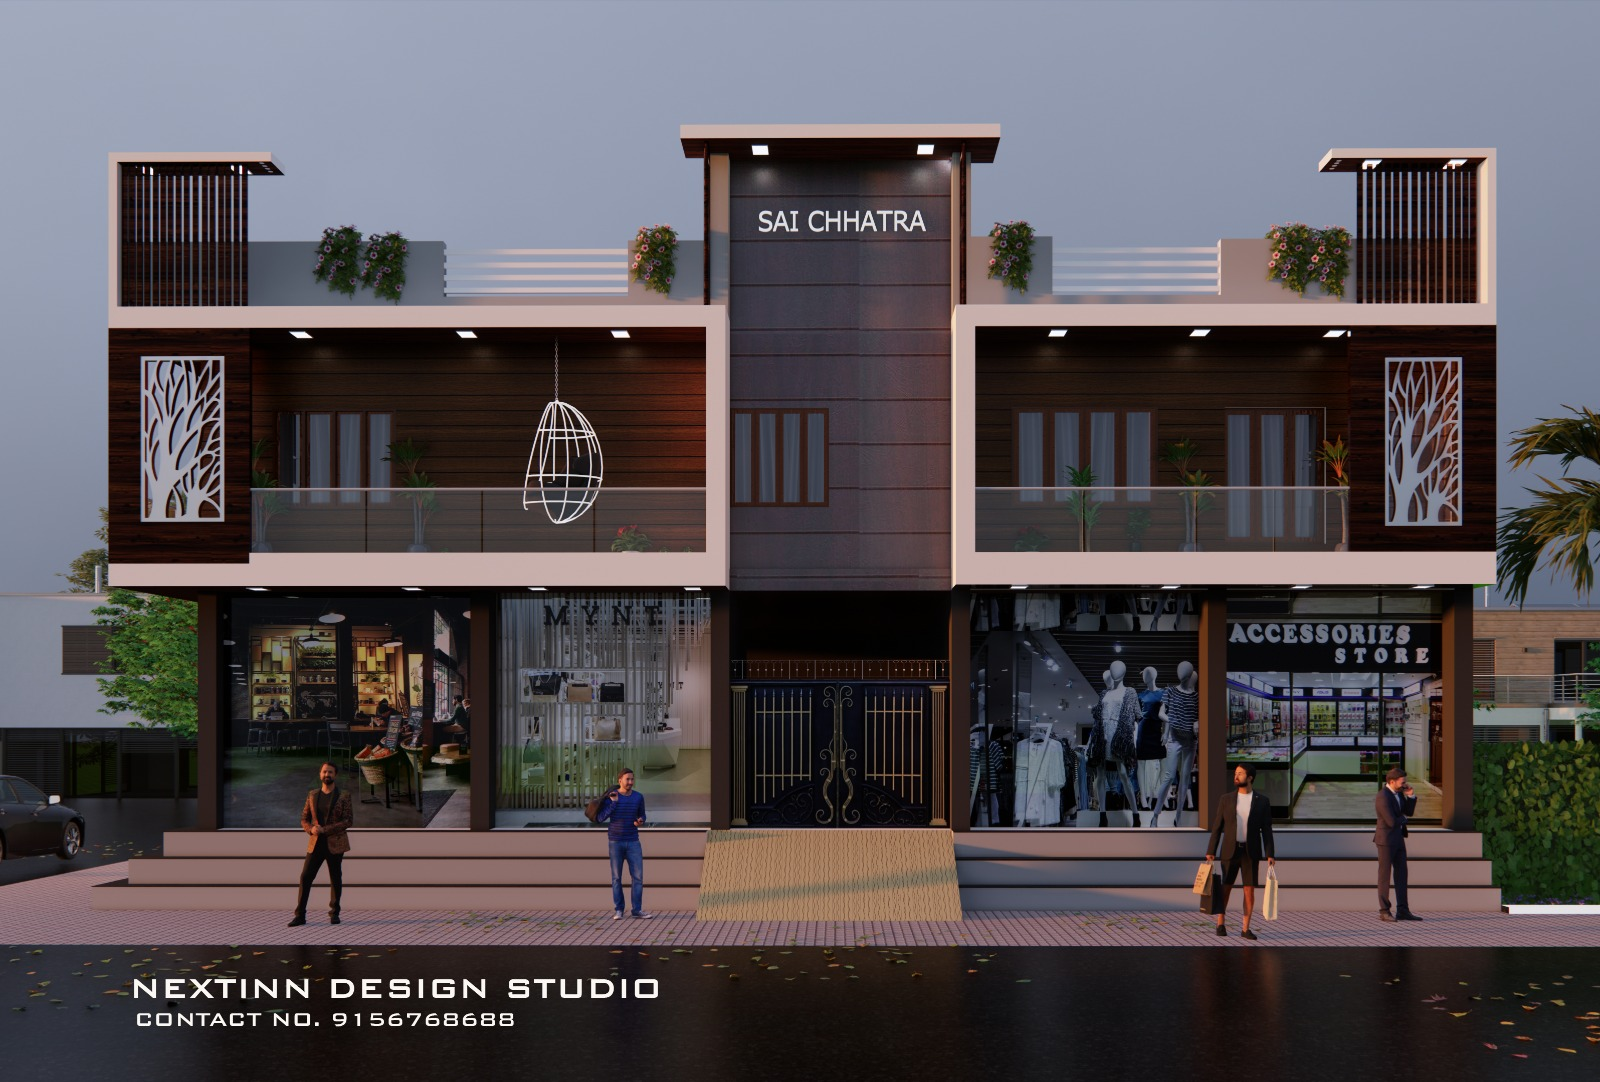
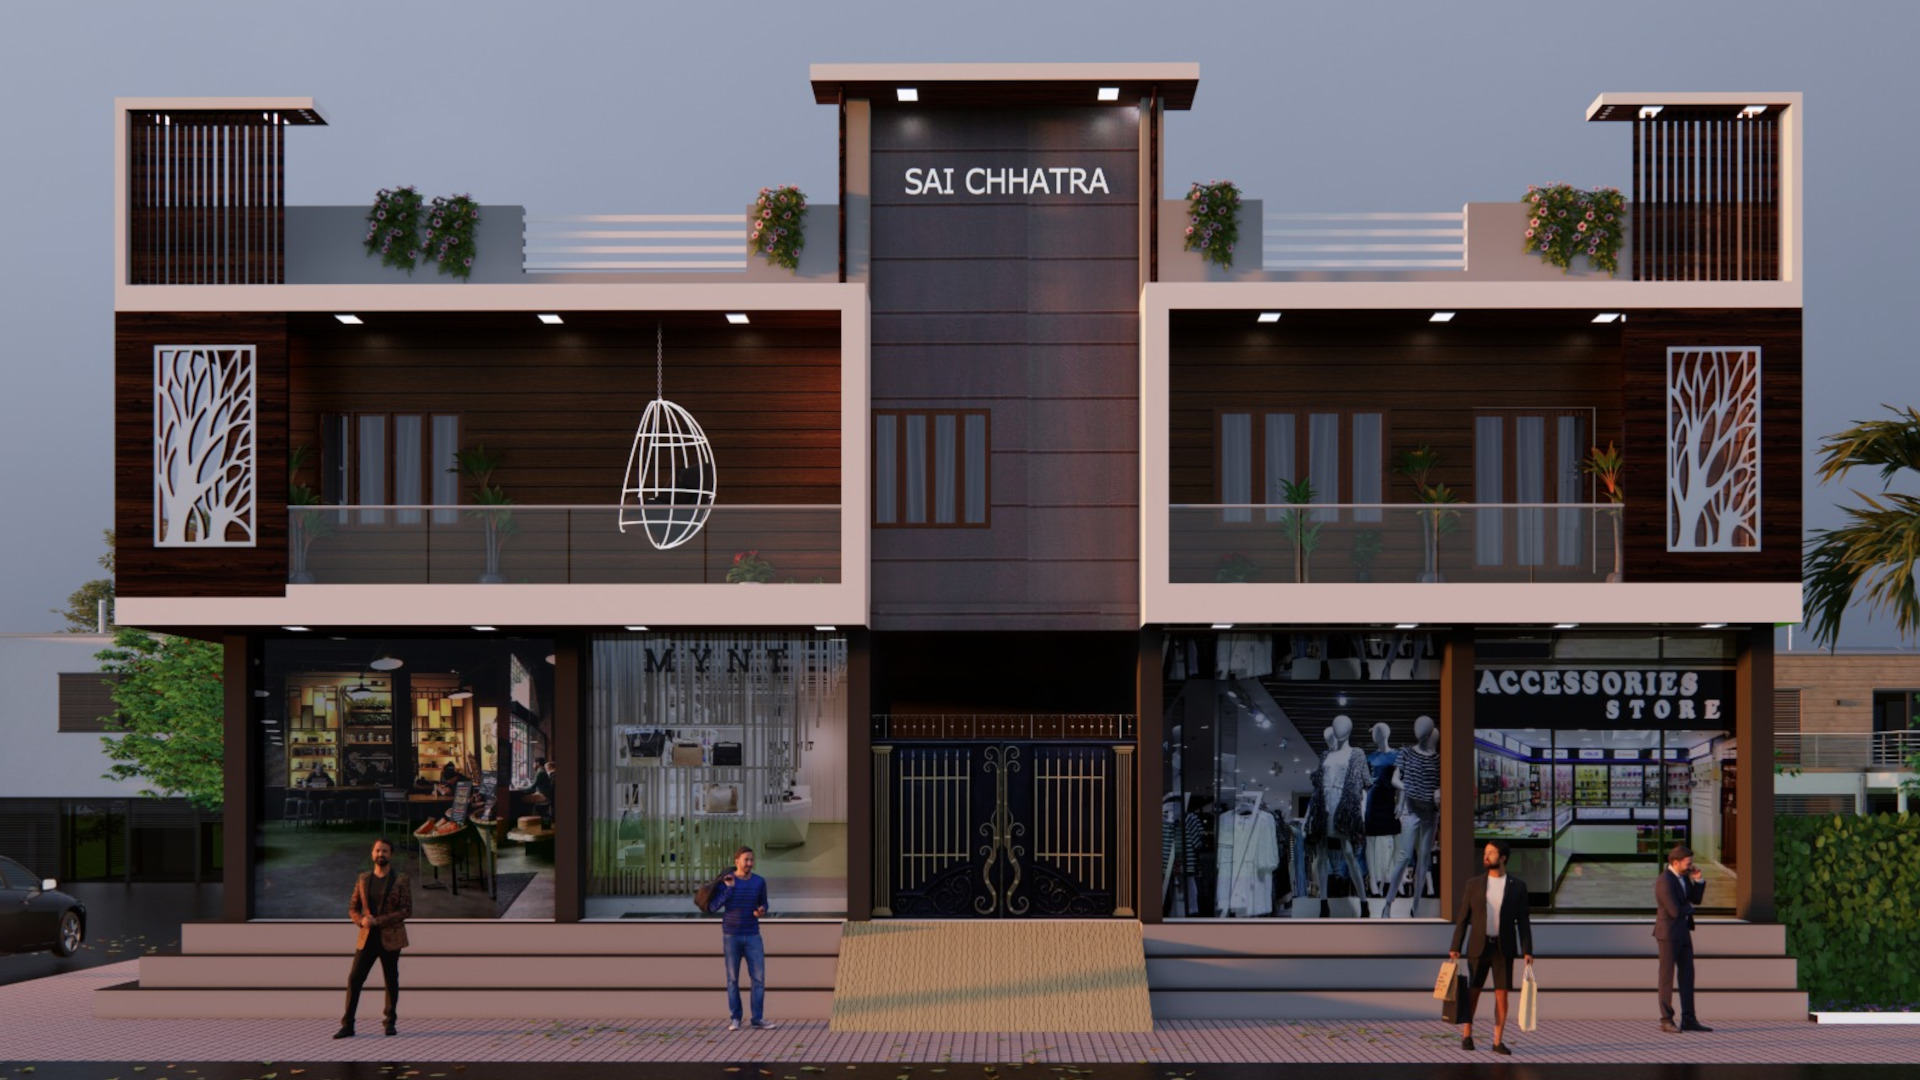
custom sliding

diff --git a/themes/tella/static/css/splide.min.css b/themes/tella/static/css/splide.min.css
@@ -1,1 +1,35 @@
-.splide__container{box-sizing:border-box;position:relative}.splide__list{backface-visibility:hidden;display:-ms-flexbox;display:flex;height:100%;margin:0!important;padding:0!important}.splide.is-initialized:not(.is-active) .splide__list{display:block}.splide__pagination{-ms-flex-align:center;align-items:center;display:-ms-flexbox;display:flex;-ms-flex-wrap:wrap;flex-wrap:wrap;-ms-flex-pack:center;justify-content:center;margin:0;pointer-events:none}.splide__pagination li{display:inline-block;line-height:1;list-style-type:none;margin:0;pointer-events:auto}.splide:not(.is-overflow) .splide__pagination{display:none}.splide__progress__bar{width:0}.splide{position:relative;visibility:hidden}.splide.is-initialized,.splide.is-rendered{visibility:visible}.splide__slide{backface-visibility:hidden;box-sizing:border-box;-ms-flex-negative:0;flex-shrink:0;list-style-type:none!important;margin:0;position:relative}.splide__slide img{vertical-align:bottom}.splide__spinner{animation:splide-loading 1s linear infinite;border:2px solid #999;border-left-color:transparent;border-radius:50%;bottom:0;contain:strict;display:inline-block;height:20px;left:0;margin:auto;position:absolute;right:0;top:0;width:20px}.splide__sr{clip:rect(0 0 0 0);border:0;height:1px;margin:-1px;overflow:hidden;padding:0;position:absolute;width:1px}.splide__toggle.is-active .splide__toggle__play,.splide__toggle__pause{display:none}.splide__toggle.is-active .splide__toggle__pause{display:inline}.splide__track{overflow:hidden;position:relative;z-index:0}@keyframes splide-loading{0%{transform:rotate(0)}to{transform:rotate(1turn)}}.splide__track--draggable{-webkit-touch-callout:none;-webkit-user-select:none;-ms-user-select:none;user-select:none}.splide__track--fade>.splide__list>.splide__slide{margin:0!important;opacity:0;z-index:0}.splide__track--fade>.splide__list>.splide__slide.is-active{opacity:1;z-index:1}.splide--rtl{direction:rtl}.splide__track--ttb>.splide__list{display:block}.splide__arrow{-ms-flex-align:center;align-items:center;background:#ccc;border:0;border-radius:50%;cursor:pointer;display:-ms-flexbox;display:flex;height:2em;-ms-flex-pack:center;justify-content:center;opacity:.7;padding:0;position:absolute;top:50%;transform:translateY(-50%);width:2em;z-index:1}.splide__arrow svg{fill:#000;height:1.2em;width:1.2em}.splide__arrow:hover:not(:disabled){opacity:.9}.splide__arrow:disabled{opacity:.3}.splide__arrow:focus-visible{outline:3px solid #0bf;outline-offset:3px}.splide__arrow--prev{left:1em}.splide__arrow--prev svg{transform:scaleX(-1)}.splide__arrow--next{right:1em}.splide.is-focus-in .splide__arrow:focus{outline:3px solid #0bf;outline-offset:3px}.splide__pagination{bottom:.5em;left:0;padding:0 1em;position:absolute;right:0;z-index:1}.splide__pagination__page{background:#ccc;border:0;border-radius:50%;display:inline-block;height:8px;margin:3px;opacity:.7;padding:0;position:relative;transition:transform .2s linear;width:8px}.splide__pagination__page.is-active{background:#fff;transform:scale(1.4);z-index:1}.splide__pagination__page:hover{cursor:pointer;opacity:.9}.splide__pagination__page:focus-visible{outline:3px solid #0bf;outline-offset:3px}.splide.is-focus-in .splide__pagination__page:focus{outline:3px solid #0bf;outline-offset:3px}.splide__progress__bar{background:#ccc;height:3px}.splide__slide{-webkit-tap-highlight-color:rgba(0,0,0,0)}.splide__slide:focus{outline:0}@supports(outline-offset:-3px){.splide__slide:focus-visible{outline:3px solid #0bf;outline-offset:-3px}}@media screen and (-ms-high-contrast:none){.splide__slide:focus-visible{border:3px solid #0bf}}@supports(outline-offset:-3px){.splide.is-focus-in .splide__slide:focus{outline:3px solid #0bf;outline-offset:-3px}}@media screen and (-ms-high-contrast:none){.splide.is-focus-in .splide__slide:focus{border:3px solid #0bf}.splide.is-focus-in .splide__track>.splide__list>.splide__slide:focus{border-color:#0bf}}.splide__toggle{cursor:pointer}.splide__toggle:focus-visible{outline:3px solid #0bf;outline-offset:3px}.splide.is-focus-in .splide__toggle:focus{outline:3px solid #0bf;outline-offset:3px}.splide__track--nav>.splide__list>.splide__slide{border:3px solid transparent;cursor:pointer}.splide__track--nav>.splide__list>.splide__slide.is-active{border:3px solid #000}.splide__arrows--rtl .splide__arrow--prev{left:auto;right:1em}.splide__arrows--rtl .splide__arrow--prev svg{transform:scaleX(1)}.splide__arrows--rtl .splide__arrow--next{left:1em;right:auto}.splide__arrows--rtl .splide__arrow--next svg{transform:scaleX(-1)}.splide__arrows--ttb .splide__arrow{left:50%;transform:translate(-50%)}.splide__arrows--ttb .splide__arrow--prev{top:1em}.splide__arrows--ttb .splide__arrow--prev svg{transform:rotate(-90deg)}.splide__arrows--ttb .splide__arrow--next{bottom:1em;top:auto}.splide__arrows--ttb .splide__arrow--next svg{transform:rotate(90deg)}.splide__pagination--ttb{bottom:0;display:-ms-flexbox;display:flex;-ms-flex-direction:column;flex-direction:column;left:auto;padding:1em 0;right:.5em;top:0}
+.splide__container{box-sizing:border-box;position:relative}.splide__list{backface-visibility:hidden;display:-ms-flexbox;display:flex;height:100%;margin:0!important;padding:0!important}.splide.is-initialized:not(.is-active) .splide__list{display:block}.splide__pagination{-ms-flex-align:center;align-items:center;display:-ms-flexbox;display:flex;-ms-flex-wrap:wrap;flex-wrap:wrap;-ms-flex-pack:center;justify-content:center;margin:0;pointer-events:none}.splide__pagination li{display:inline-block;line-height:1;list-style-type:none;margin:0;pointer-events:auto}.splide:not(.is-overflow) .splide__pagination{display:none}.splide__progress__bar{width:0}.splide{position:relative;visibility:hidden}.splide.is-initialized,.splide.is-rendered{visibility:visible}.splide__slide{backface-visibility:hidden;box-sizing:border-box;-ms-flex-negative:0;flex-shrink:0;list-style-type:none!important;margin:0;position:relative}.splide__slide img{vertical-align:bottom}.splide__spinner{animation:splide-loading 3s linear infinite;border:2px solid #999;border-left-color:transparent;border-radius:50%;bottom:0;contain:strict;display:inline-block;height:20px;left:0;margin:auto;position:absolute;right:0;top:0;width:20px}.splide__sr{clip:rect(0 0 0 0);border:0;height:1px;margin:-1px;overflow:hidden;padding:0;position:absolute;width:1px}.splide__toggle.is-active .splide__toggle__play,.splide__toggle__pause{display:none}.splide__toggle.is-active .splide__toggle__pause{display:inline}.splide__track{overflow:hidden;position:relative;z-index:0}@keyframes splide-loading{0%{transform:rotate(0)}to{transform:rotate(1turn)}}.splide__track--draggable{-webkit-touch-callout:none;-webkit-user-select:none;-ms-user-select:none;user-select:none}.splide__track--fade>.splide__list>.splide__slide{margin:0!important;opacity:0;z-index:0}.splide__track--fade>.splide__list>.splide__slide.is-active{opacity:1;z-index:1}.splide--rtl{direction:rtl}.splide__track--ttb>.splide__list{display:block}.splide__arrow{-ms-flex-align:center;align-items:center;background:#ccc;border:0;border-radius:50%;cursor:pointer;display:-ms-flexbox;display:flex;height:2em;-ms-flex-pack:center;justify-content:center;opacity:.7;padding:0;position:absolute;top:50%;transform:translateY(-50%);width:2em;z-index:1}.splide__arrow svg{fill:#000;height:1.2em;width:1.2em}.splide__arrow:hover:not(:disabled){opacity:.9}.splide__arrow:disabled{opacity:.3}.splide__arrow:focus-visible{outline:3px solid #0bf;outline-offset:3px}.splide__arrow--prev{left:1em}.splide__arrow--prev svg{transform:scaleX(-1)}.splide__arrow--next{right:1em}.splide.is-focus-in .splide__arrow:focus{outline:3px solid #0bf;outline-offset:3px}.splide__pagination{bottom:.5em;left:0;padding:0 1em;position:absolute;right:0;z-index:1}.splide__pagination__page{background:#ccc;border:0;border-radius:50%;display:inline-block;height:8px;margin:3px;opacity:.7;padding:0;position:relative;transition:transform .2s linear;width:8px}.splide__pagination__page.is-active{background:#fff;transform:scale(1.4);z-index:1}.splide__pagination__page:hover{cursor:pointer;opacity:.9}.splide__pagination__page:focus-visible{outline:3px solid #0bf;outline-offset:3px}.splide.is-focus-in .splide__pagination__page:focus{outline:3px solid #0bf;outline-offset:3px}.splide__progress__bar{background:#ccc;height:3px}.splide__slide{-webkit-tap-highlight-color:rgba(0,0,0,0)}.splide__slide:focus{outline:0}@supports(outline-offset:-3px){.splide__slide:focus-visible{outline:3px solid #0bf;outline-offset:-3px}}@media screen and (-ms-high-contrast:none){.splide__slide:focus-visible{border:3px solid #0bf}}@supports(outline-offset:-3px){.splide.is-focus-in .splide__slide:focus{outline:3px solid #0bf;outline-offset:-3px}}@media screen and (-ms-high-contrast:none){.splide.is-focus-in .splide__slide:focus{border:3px solid #0bf}.splide.is-focus-in .splide__track>.splide__list>.splide__slide:focus{border-color:#0bf}}.splide__toggle{cursor:pointer}.splide__toggle:focus-visible{outline:3px solid #0bf;outline-offset:3px}.splide.is-focus-in .splide__toggle:focus{outline:3px solid #0bf;outline-offset:3px}.splide__track--nav>.splide__list>.splide__slide{border:3px solid transparent;cursor:pointer}.splide__track--nav>.splide__list>.splide__slide.is-active{border:3px solid #000}.splide__arrows--rtl .splide__arrow--prev{left:auto;right:1em}.splide__arrows--rtl .splide__arrow--prev svg{transform:scaleX(1)}.splide__arrows--rtl .splide__arrow--next{left:1em;right:auto}.splide__arrows--rtl .splide__arrow--next svg{transform:scaleX(-1)}.splide__arrows--ttb .splide__arrow{left:50%;transform:translate(-50%)}.splide__arrows--ttb .splide__arrow--prev{top:1em}.splide__arrows--ttb .splide__arrow--prev svg{transform:rotate(-90deg)}.splide__arrows--ttb .splide__arrow--next{bottom:1em;top:auto}.splide__arrows--ttb .splide__arrow--next svg{transform:rotate(90deg)}.splide__pagination--ttb{bottom:0;display:-ms-flexbox;display:flex;-ms-flex-direction:column;flex-direction:column;left:auto;padding:1em 0;right:.5em;top:0}
+/* Custom 16:9 slide sizing */
+.top-page-slider {
+    width: 100%;
+}
+
+.top-page-slider .splide__track {
+    width: 100%;
+    aspect-ratio: 16 / 9;
+    overflow: hidden;
+}
+
+.top-page-slider .splide__list {
+    height: 100%;
+}
+
+.top-page-slider .splide__slide {
+    width: 100%;
+    height: 100%;
+    overflow: hidden;
+    position: relative;
+}
+
+.top-page-slider .splide__slide img.top-slide-image {
+    display: block;
+    width: 100%;
+    height: 100%;
+    object-fit: cover;
+    object-position: center;
+}
+
+.top-page-slider .s-fade-txt {
+    position: absolute;
+    z-index: 2;
+}

diff --git a/themes/tella/layouts/partials/slide.html b/themes/tella/layouts/partials/slide.html
@@ -1,25 +1,49 @@
-<div class="splide" role="group" aria-label="Top Page Slides">
+<div class="splide top-page-slider" role="group" aria-label="Top Page Slides">
     <div class="splide__track">
         <ul class="splide__list">
+
             {{ if ge hugo.Version "0.156.0" }}
+
                 {{ range hugo.Data.slide }}
                 <li class="splide__slide">
-                    <img src="{{ .image | strings.TrimPrefix "/" | relURL }}" alt="{{ .alt }}">
+                    <img
+                        class="top-slide-image"
+                        src="{{ .image | strings.TrimPrefix "/" | relURL }}"
+                        alt="{{ .alt }}"
+                        width="1920"
+                        height="1080"
+                    >
+
                     <div class="s-fade-txt">
-                        <h1 class="text-4xl font-medium {{ or .color "text-white" }}">{{ .title }}</h1>
+                        <h1 class="text-4xl font-medium {{ or .color "text-white" }}">
+                            {{ .title }}
+                        </h1>
                     </div>
                 </li>
                 {{ end }}
+
             {{ else }}
+
                 {{ range .Site.Data.slide }}
                 <li class="splide__slide">
-                    <img src="{{ .image | strings.TrimPrefix "/" | relURL }}" alt="{{ .alt }}">
+                    <img
+                        class="top-slide-image"
+                        src="{{ .image | strings.TrimPrefix "/" | relURL }}"
+                        alt="{{ .alt }}"
+                        width="1920"
+                        height="1080"
+                    >
+
                     <div class="s-fade-txt">
-                        <h1 class="text-4xl font-medium {{ or .color "text-white" }}">{{ .title }}</h1>
+                        <h1 class="text-4xl font-medium {{ or .color "text-white" }}">
+                            {{ .title }}
+                        </h1>
                     </div>
                 </li>
                 {{ end }}
+
             {{ end }}
+
         </ul>
     </div>
 </div>

diff --git a/themes/tella/layouts/index.html b/themes/tella/layouts/index.html
@@ -15,10 +15,10 @@
     {{- partial "slide.html" . -}}
     <div class="bg-tlgray-200 py-6 md:py-10">
       <div class="container mx-auto max-w-7xl">
-        <div class="bg-white text-center mx-2 px-4 py-10 flex flex-row justify-center items-center duration-300 h-full hover:-translate-y-1 hover:shadow-lg">
+        <div class="bg-white text-justify mx-2 px-4 py-10 flex flex-row justify-center items-center duration-300 h-full hover:-translate-y-1 hover:shadow-lg">
               <div class="p-1">
-                <h2 class="text-2xl text-center font-semibold mb-2"> Welcome to NextInn Design Studio </h2>
-                <p class="font-sans text-center "> At NextInn Design Studio, we specialize in transforming ideas into stunning visual realities. Whether you're envisioning your dream home, launching a new product, or developing an immersive virtual experience, our team is dedicated to bringing your concepts to life with creativity and precision. </p>
+                <h2 class="text-2xl text-center font-bold mb-2"> Welcome to NextInn Design Studio </h2>
+                <p class="font-sans text-center"> At NextInn Design Studio, we specialize in transforming ideas into stunning visual realities. Whether you're envisioning your dream home, launching a new product, or developing an immersive virtual experience, our team is dedicated to bringing your concepts to life with creativity and precision. </p>
               </div>
             </div>
         </div>
